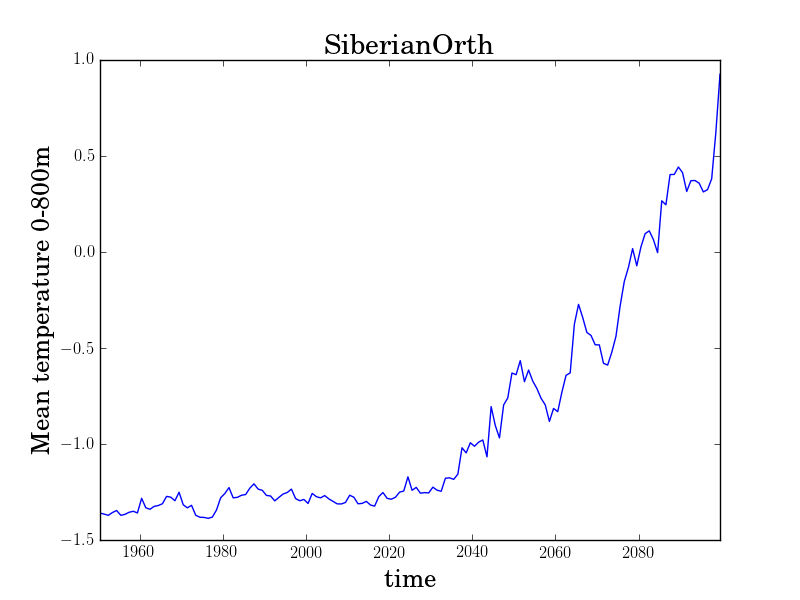
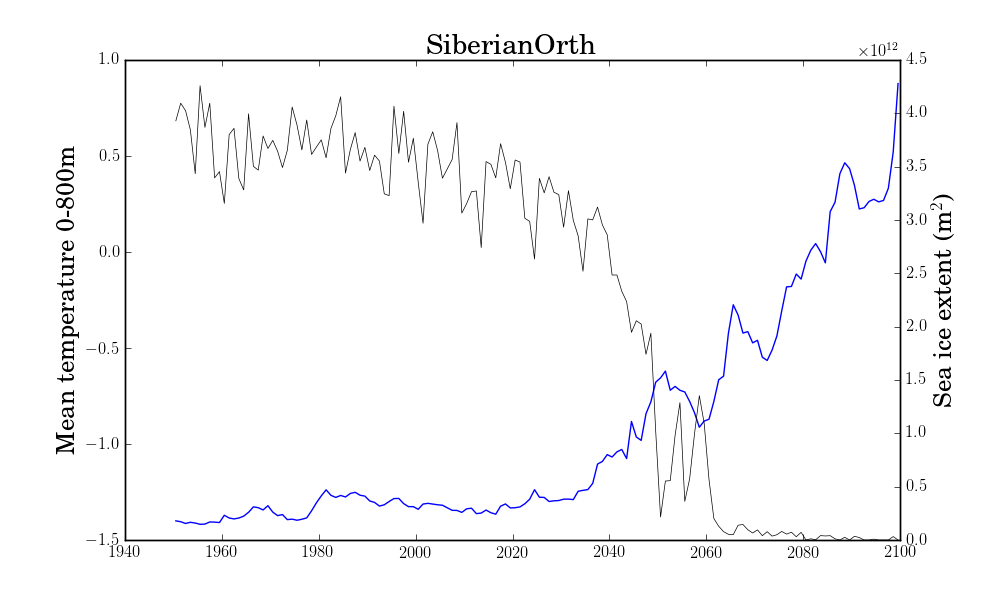
update plots section: 30ymeans + added sea ice ext to T time serie

diff --git a/sections/x_section.py b/sections/x_section.py
@@ -16,8 +16,8 @@ import make_plot
 import loading
 
 
-var = 'Uorth'			# sal, temp, Uorth Utang density
-option = 'Coupled'		# Coupled, Uncoupled
+var = 'density'			# sal, temp, Uorth Utang density
+option = 'Uncoupled'		# Coupled, Uncoupled
 
 y1 = 2070
 y2 = 2100
@@ -44,15 +44,15 @@ class From1950to2100():									#//
      if basin == 'undefined':								#//
         sufix = str(self.y1)+'to'+str(self.y2)+'_'+str(lat_min)+'_'+str(option)
      else: 
-        sufix = str(self.y1)+'_'+str(basin)+'_'+str(option)
+        sufix = str(self.y1)+'_30ymean_'+str(basin)+'_'+str(option)
 
      if compa == 'no':									#//
         self.output_file = str(var)+'_'+str(sufix)
      elif compa == 'yes':
         self.output_file = str(var)+'Sept_TimeSerieAnomaly_'+str(sufix)
 
-     self.path = '/media/fig010/LACIE SHARE/EC_Earth/EC_data/section/section.nc'#_' \
-     #             +str(basin)+'_'+str(option)+'.nc'  
+     self.path = '/media/fig010/LACIE SHARE/EC_Earth/EC_data/section/section_' \
+                  +str(basin)+'_'+str(option)+'.nc'  
 
      if compa == 'yes':
       if var == 'temp':                                                                 #//
@@ -116,4 +116,4 @@ make_plot.points_on_map(xr,yr,var,basin)
 index_y1 = np.min(np.where(simu.first_year+time[:]/(3600*24*364.5)>simu.y1))
 index_y2 = np.min(np.where(simu.first_year+time[:]/(3600*24*364.5)>simu.y2))
 print(np.shape(VAR), np.shape(depth), np.shape(X))
-make_plot.one_sec(np.mean(VAR[:,:,index_y1:-1],axis=2).transpose(),var,X,depth,simu.max_depth,y1,simu.output_file,simu.vmin,simu.vmax,basin)
+make_plot.one_sec(np.mean(VAR[:,:,index_y1:index_y1+29],axis=2).transpose(),var,X,depth,simu.max_depth,y1,simu.output_file,simu.vmin,simu.vmax,basin)

diff --git a/Sept_Ice/basic_map.py b/Sept_Ice/basic_map.py
@@ -17,14 +17,15 @@ import make_plot
 import loading
 
 var = 'IceC'
-option = 'Uncoupled'
+option = 'Coupled'
 specificity = ''
-y1 = 2046#+140
+y1 = 2020#+140
 y2 = y1+12
 
 month = 'Sept'
 comparison = 'yes'
 
+output_file = str(var)+str(month)+'_plaquette_'+str(y1)+'To'+str(y2)+'_'+str(option)                                #//
 
 #//////////////////////////////////////////////////////////////////////////////////////////
 class From1950to2100():                                                                 #//
@@ -37,7 +38,6 @@ class From1950to2100():                                                         
      self.y2 = y2                                                                       #//
      self.y1_compa = y1+1
      self.y2_compa = 2042
-     self.output_file = str(var)+str(month)+'_plaquette_'+str(self.y1)+'To'+str(self.y2)+'_'+str(option)                                #//
      self.path = '/media/fig010/LACIE SHARE/EC_Earth/EC_data/'+str(month)+'_Ice_'+str(option)+'.nc'
 
      if compa == 'yes':
@@ -111,4 +111,4 @@ for i in range(1,13):
    cs = m.pcolor(x,y,array_to_plot,vmin=simu.vmin,vmax=simu.vmax)
    cs2=m.contour(x, y, VarArray_simu[:,:,index_y1], [0.15],colors='r')
    cs3=m.contour(x, y, VarArray_simu[:,:,index_y1c], [0.15],colors='b')
-plt.savefig(str(var)+'/'+str(simu.output_file)+'.png',format='png')          
+plt.savefig(str(var)+'/'+str(output_file)+'.png',format='png')          

diff --git a/sections/make_plot.py b/sections/make_plot.py
@@ -320,6 +320,29 @@ def var_fc_time(var,variable_name,t,first_year_file,lat_min,name_outfile,ocean, 
   plt.savefig(str(variable_name)+'/'+str(name_outfile.replace(".",""))+'.png')
   return
 
+def var_fc_time_two_axis(var,variable_name,t,first_year_file, ice_ext,z,zmax,year,option,vmin,vmax,ocean,name_outfile):
+  fig = plt.figure(figsize=(10,6))
+  plt.rc('text', usetex=True)
+  plt.rc('font', family='serif')
+  ax1 = fig.add_subplot(111)
+  t = t/(3600*24*365.)
+  plt.xlim([first_year_file+np.min(t),first_year_file+np.max(t)])
+  #plt.ylim([0.,0.75])
+  if variable_name == 'IceC':
+     ax1.plot(first_year_file+t,var)
+     plt.ylabel('Ice cover',fontsize=18)
+  elif variable_name == 'temp':
+     ax1.plot(first_year_file+t,var)
+     plt.ylabel('Mean temperature 0-'+str(zmax)+'m',fontsize=18)
+
+  ax2 = ax1.twinx()
+  ax2.plot(first_year_file+t,ice_ext,linewidth=0.5,color="black")
+  plt.ylabel(r'Sea ice extent (m$^{2}$)',fontsize=18)
+
+  plt.xlabel('time',fontsize=18)
+  plt.title(str(ocean.replace("_"," ")),size=20)
+  plt.savefig(str(variable_name)+'/'+str(name_outfile.replace(".",""))+'.png')
+  return
 
 
 

diff --git a/sections/time_serie_anomalie.py b/sections/time_serie_anomalie.py
@@ -108,10 +108,15 @@ def time_serie_Arctic_2D(path,var,lat_min,basin):
 simu = From1950to2100(option,var,y1,y2,comparison,basin) 
 time, depth, mean_Arctic_simu = time_serie_Arctic(simu.path,var)
 
+sea_ice_extent = loading.extract_sea_ice_ext(y1,y2,option)
 
 index_y1 = np.min(np.where(simu.first_year+time[:]/(3600*24*364.5)>simu.y1))
 index_y2 = np.min(np.where(simu.first_year+time[:]/(3600*24*364.5)>simu.y2))
 
 print(mean_Arctic_simu[index_y1:index_y2])
 # JUST ONE TIME SERIE PLOT
-make_plot.var_fc_time(mean_Arctic_simu[index_y1:index_y2],var,time[index_y1:index_y2],simu.first_year, 0,simu.output_file,basin,simu.zmax)
+#make_plot.var_fc_time(mean_Arctic_simu[index_y1:index_y2],var,time[index_y1:index_y2],simu.first_year, 0,simu.output_file,basin,simu.zmax)
+
+make_plot.var_fc_time_two_axis(mean_Arctic_simu[index_y1:index_y2],var,time[index_y1:index_y2],simu.first_year,sea_ice_extent,\
+                       depth,simu.zmax,simu.first_year,simu.output_file,simu.vmin,simu.vmax,basin,simu.output_file)
+

diff --git a/sections/loading.py b/sections/loading.py
@@ -141,3 +141,19 @@ def Ocean_mask(x,y,basin):
 
   return mask
 
+def extract_sea_ice_ext(y1,y2,option):
+
+   txt_file = '/media/fig010/LACIE SHARE/EC_Earth/EC_data/Septembre_Sea_ice_extent_'+str(y1)+'to'+str(y2)+'_'+str(option)+'.txt'
+   ice_ext_array = np.zeros((y2-y1-1))
+   with open(txt_file, "r") as f:
+     tab = []
+
+     for line in range(0,y2-y1-1):
+         tab.append(f.readline().split())
+     print(tab)
+     ice_ext = np.array([float(x[0]) for x in tab])
+
+     for i in range(0,y2-y1-1):
+       ice_ext_array[i] = str(ice_ext[i])
+   return ice_ext_array
+

diff --git a/sections/basic_map.py b/sections/basic_map.py
@@ -16,7 +16,7 @@ import numpy as np
 import make_plot
 import loading
 
-var = 'Uorth'		#sal, temp, density, Uorth
+var = 'density'		#sal, temp, density, Uorth
 option = 'Coupled'
 specificity = ''
 y1 = 2040#+140
